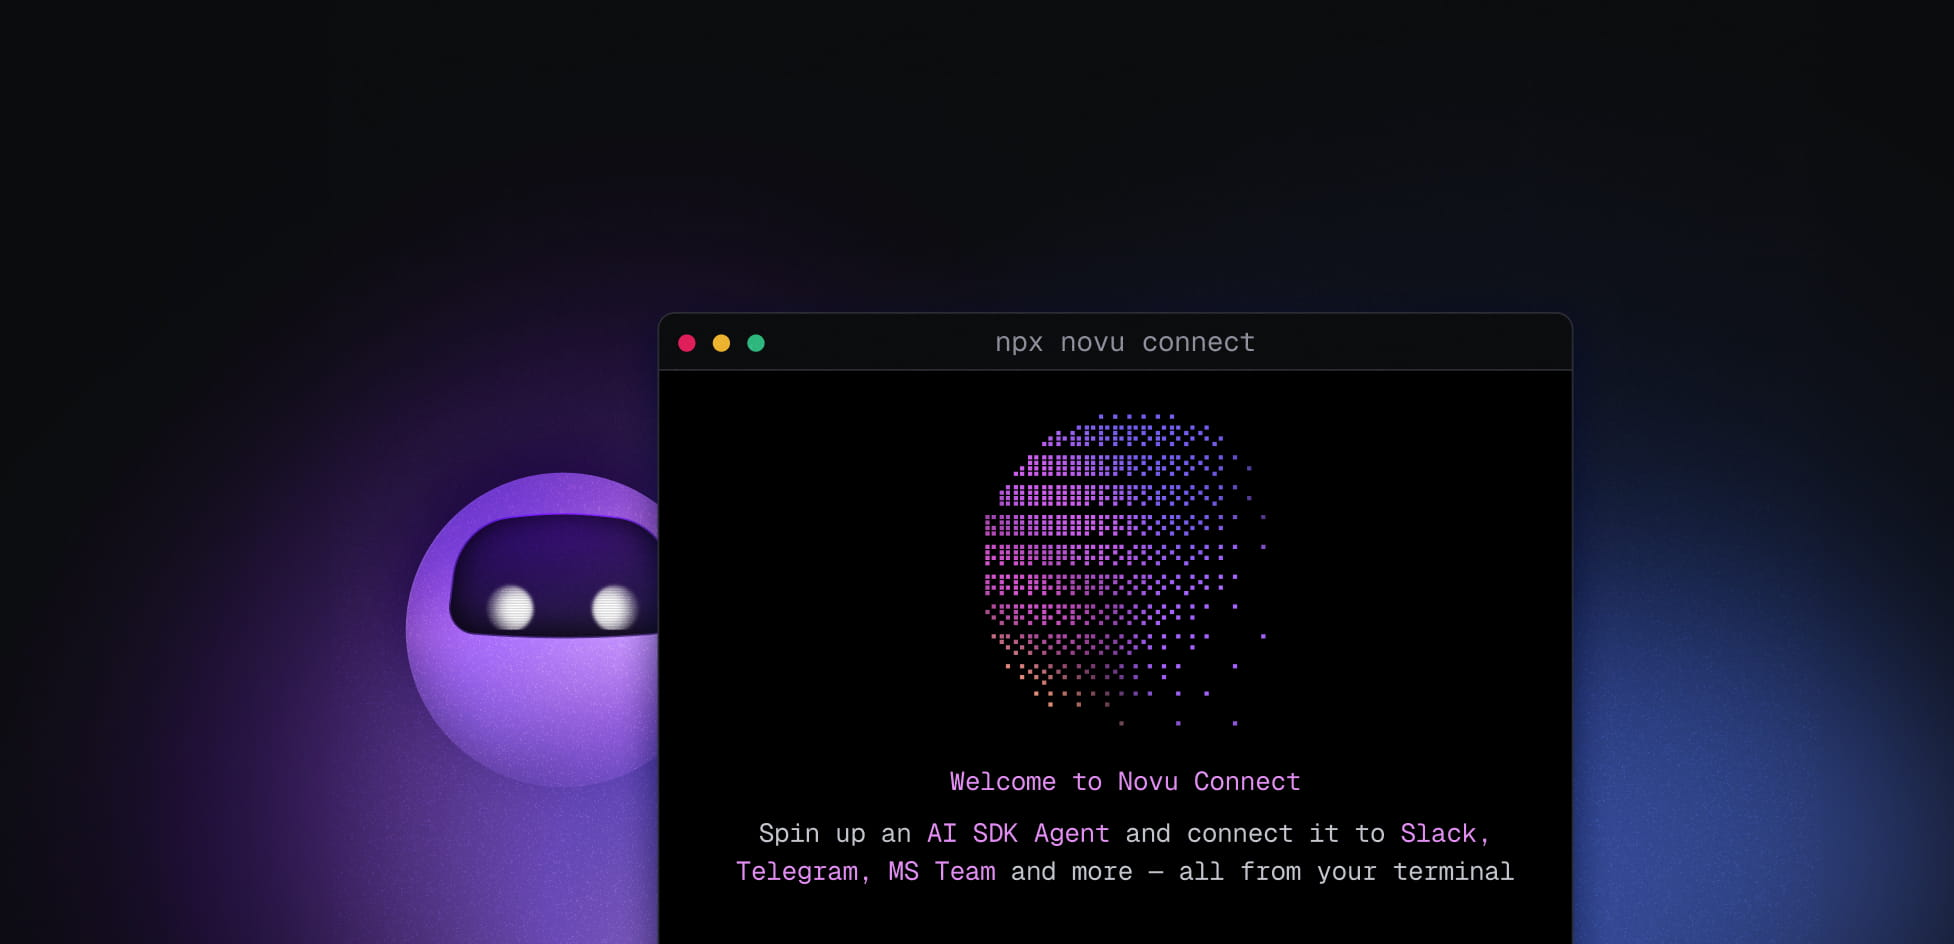
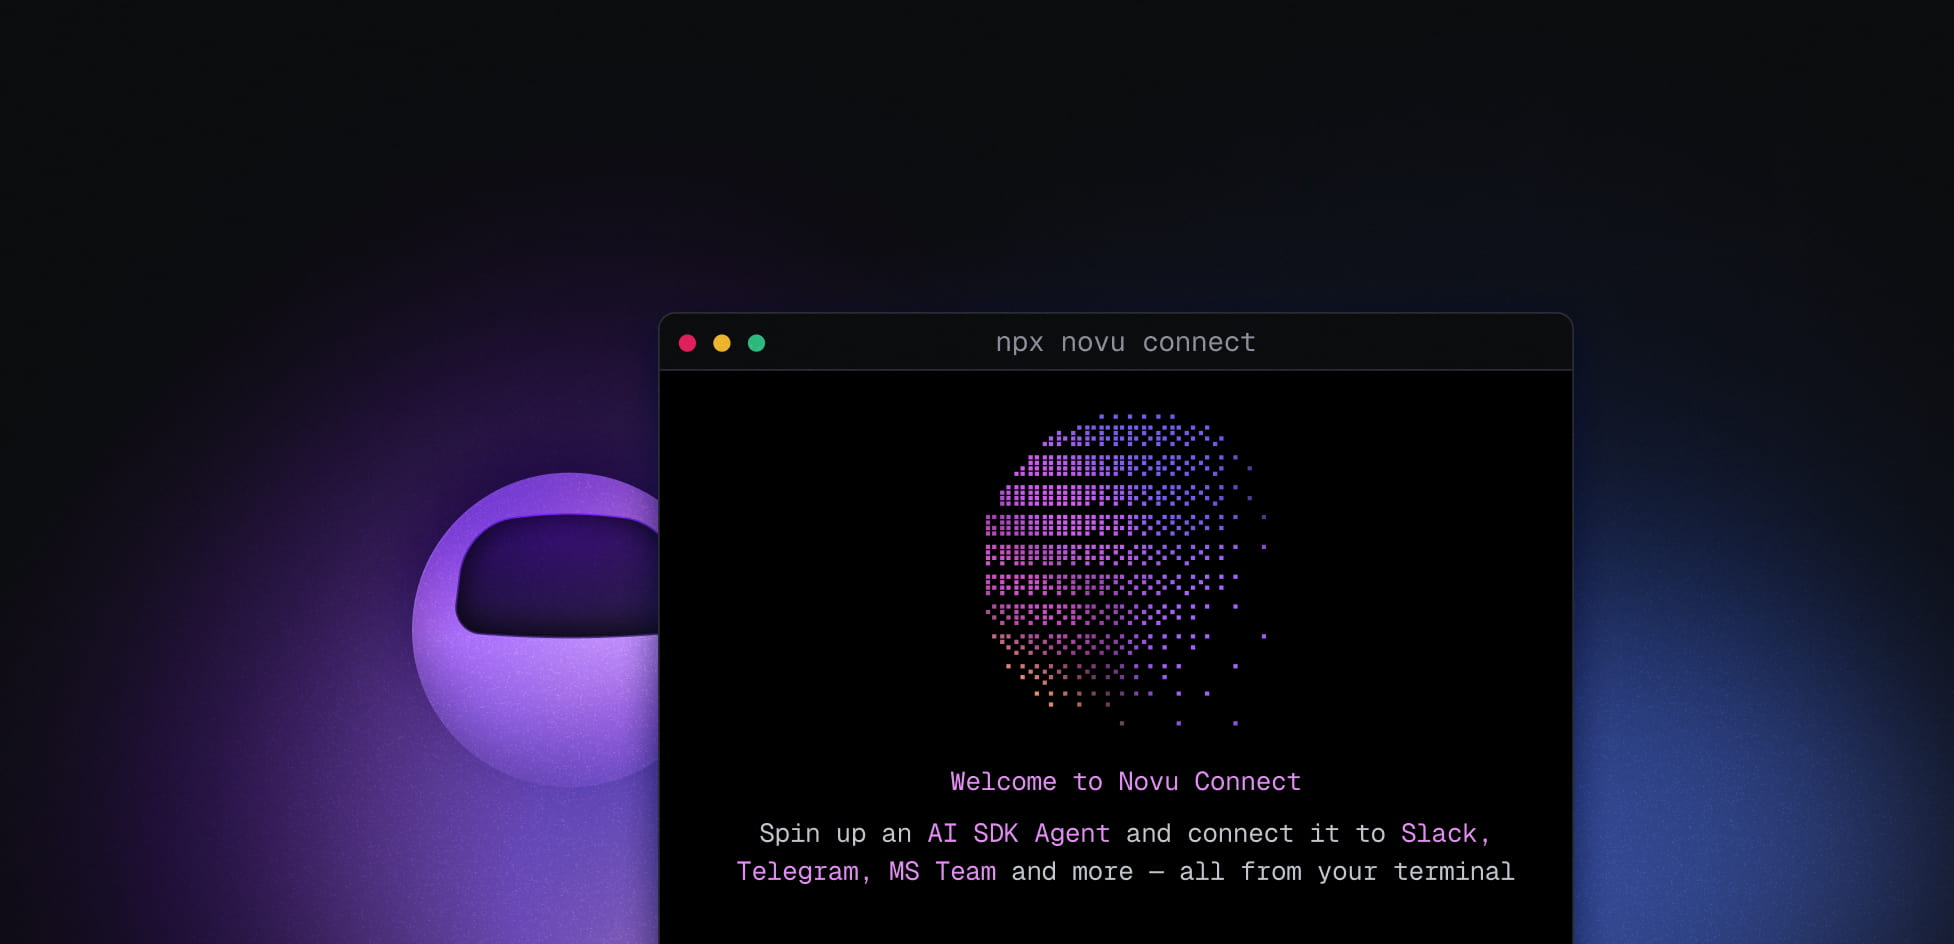
chore: bento cards adjustments

diff --git a/src/components/pages/home/connect-mascot-eyes.tsx b/src/components/pages/home/connect-mascot-eyes.tsx
@@ -2,17 +2,14 @@
 
 import { useEffect, useRef } from "react"
 import eyesImg from "@/images/pages/home/novu-connect/mascot-eyes.png"
-import visorImg from "@/images/pages/home/novu-connect/mascot-visor.png"
 
 import { cn } from "@/lib/utils"
 
-// Brand mascot eyes (exported from Figma) that move freely. The dark visor
-// asset covers the baked eyes in one-conversation.jpg, and the eyes asset floats
-// on top and follows the cursor. All positions are percentages of the image box
-// so they track the mascot across breakpoints.
-const VISOR = { left: 16.99, top: 50.0, width: 19.96 }
-const EYES = { left: 23.7, top: 64.3, width: 8.6 }
-const MAX_OFFSET_RATIO = 0.014 // of the image width
+// The transparent eyes asset shares the 1954 × 944 coordinate system of the
+// card artwork. Percentage positioning keeps it aligned with the mascot as the
+// artwork scales and gets clipped across breakpoints.
+const EYES = { left: 23.75, top: 60.4, width: 9.8 }
+const MAX_OFFSET_RATIO = 0.011 // of the image width
 const EASING = 0.16
 
 export interface IConnectMascotEyesProps {
@@ -105,17 +102,6 @@ function ConnectMascotEyes({ className }: IConnectMascotEyesProps) {
       )}
       aria-hidden="true"
     >
-      {/* eslint-disable-next-line @next/next/no-img-element */}
-      <img
-        src={visorImg.src}
-        alt=""
-        className="absolute"
-        style={{
-          left: `${VISOR.left}%`,
-          top: `${VISOR.top}%`,
-          width: `${VISOR.width}%`,
-        }}
-      />
       {/* eslint-disable-next-line @next/next/no-img-element */}
       <img
         ref={eyesRef}

diff --git a/src/components/pages/home/code-with-inbox/inbox/theme-tabs.tsx b/src/components/pages/home/code-with-inbox/inbox/theme-tabs.tsx
@@ -58,14 +58,14 @@ function ThemeTabs({
     <LazyMotion features={domAnimation}>
       <div
         className={cn(
-          "absolute top-0 left-0 z-10 flex h-10.5 w-133 overflow-hidden rounded-full border border-white/70 bg-[linear-gradient(0deg,rgba(255,255,255,.20)_0%,rgba(255,255,255,.20)_100%),radial-gradient(120%_176%_at_54%_-36%,rgba(110,42,194,.30)_2.53%,rgba(38,25,51,.00)_100%)] mix-blend-overlay backdrop-blur-md xl:w-153",
+          "absolute top-0 left-0 z-10 flex h-10.5 w-[10.75rem] overflow-hidden rounded-full border border-white/70 bg-[linear-gradient(0deg,rgba(255,255,255,.20)_0%,rgba(255,255,255,.20)_100%),radial-gradient(120%_176%_at_54%_-36%,rgba(110,42,194,.30)_2.53%,rgba(38,25,51,.00)_100%)] mix-blend-overlay backdrop-blur-md xl:w-50",
           className
         )}
         aria-hidden="true"
       />
       <div
         className={cn(
-          "absolute top-0 left-0 z-10 flex h-10.5 items-center justify-between gap-0.75 overflow-hidden rounded-full px-1.5 lg:gap-1 2xl:gap-0.75",
+          "absolute top-0 left-0 z-10 flex h-10.5 w-[10.75rem] items-center justify-between gap-0.75 overflow-hidden rounded-full px-1.5 lg:gap-1 xl:w-50 2xl:gap-0.75",
           className
         )}
         ref={tabsListRef}

diff --git a/src/components/pages/home/novu-notify.tsx b/src/components/pages/home/novu-notify.tsx
@@ -136,7 +136,7 @@ function NovuNotify({
               <InboxComponent
                 animateEntrance={false}
                 className="notify-live-inbox zoom-[0.965] md:zoom-[0.9] lg:zoom-[1.111] xl:zoom-[0.98] absolute top-13 left-104 m-0 hidden md:block lg:right-14 lg:left-auto lg:max-[68rem]:left-112 xl:left-137"
-                themeTabsClassName="absolute top-13 left-104 m-0 hidden md:flex lg:right-14 lg:left-auto lg:max-[68rem]:left-112 xl:left-137"
+                themeTabsClassName="absolute top-13 left-104 m-0 hidden md:flex lg:right-14 lg:left-auto lg:max-[68rem]:left-112 xl:right-14 xl:left-auto"
                 variant="home"
               />
             ) : featuredItem.image ? (

diff --git a/src/components/pages/home/code-with-inbox/inbox/inbox-component.tsx b/src/components/pages/home/code-with-inbox/inbox/inbox-component.tsx
@@ -20,6 +20,7 @@ import "slick-carousel/slick/slick.css"
 import "slick-carousel/slick/slick-theme.css"
 
 const SlickSlider = dynamic(() => import("react-slick"), { ssr: false })
+const homeInboxData = inboxData.slice(0, 2)
 
 const inboxComponentVariants = cva(
   "inbox-component relative order-last h-auto w-full shrink-0 md:order-none",
@@ -84,7 +85,7 @@ function InboxComponent({
         <ThemeTabs
           className={themeTabsClassName}
           activeTheme={activeTheme}
-          items={inboxData}
+          items={homeInboxData}
           onThemeChange={setActiveTheme}
         />
       )}

diff --git a/src/styles/magic-bento.css b/src/styles/magic-bento.css
@@ -180,7 +180,6 @@
   aspect-ratio: 1;
   translate: -50% -50%;
   isolation: isolate;
-  overflow: hidden;
   border-radius: 28.18%;
   border: 0;
   background: transparent;
@@ -192,6 +191,14 @@
     transform 0.25s ease;
   will-change: transform;
   pointer-events: auto;
+}
+
+/* Bridge the narrow gaps between neighboring icons so the orbit stays paused
+   while the pointer travels from one tile to the next. */
+.mb-arc-tile::before {
+  position: absolute;
+  inset: -12.5%;
+  content: "";
 }
 
 .mb-arc-mascot {
